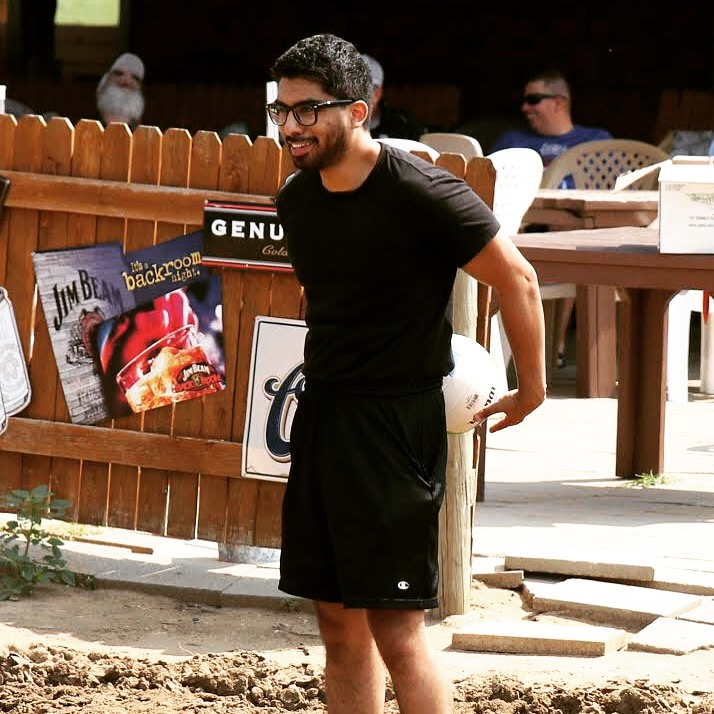
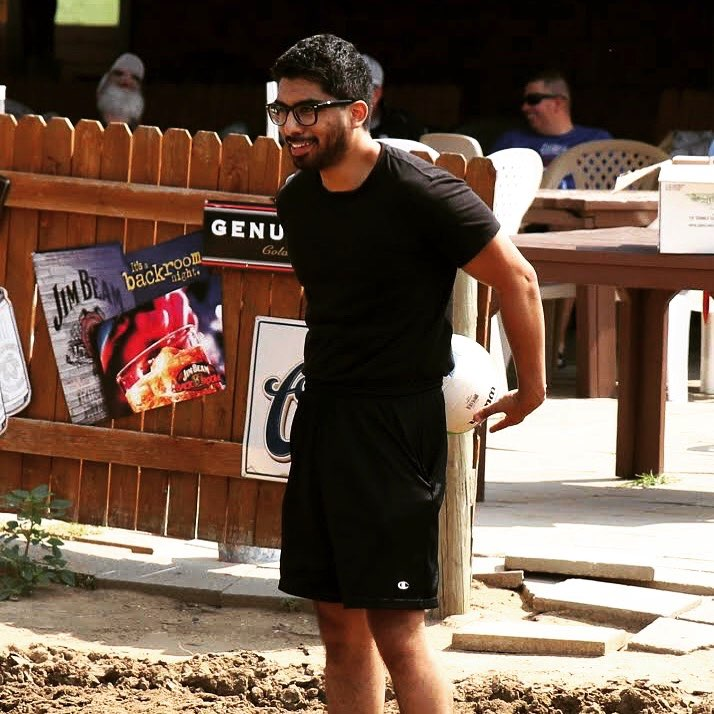
Updates Images

diff --git a/index.html b/index.html
@@ -8,7 +8,7 @@
 <meta property="og:title" content="Miguel J Rodriguez">
 <meta property="og:type" content="website">
 <meta property="og:description" content="Programmer Analyst @ Wells Blue Bunny. Check out my personal website.">
-<meta property="og:image" content="https://rodrmig.github.io/images/img_1.jpeg">
+<meta property="og:image" content="https://rodrmig.github.io/images/og_image.jpeg">
 
 <!-- > Style Sheets -->
 	<link rel="stylesheet" href="https://stackpath.bootstrapcdn.com/bootstrap/4.1.1/css/bootstrap.min.css">
